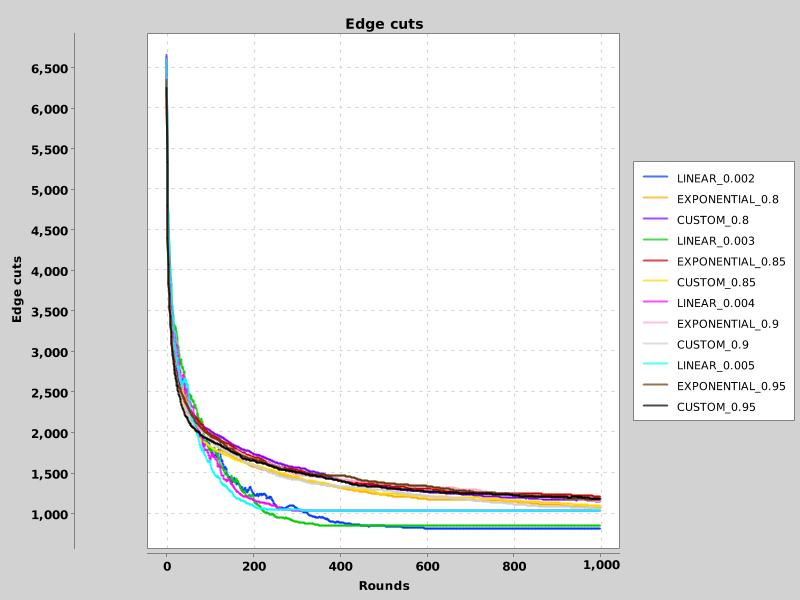
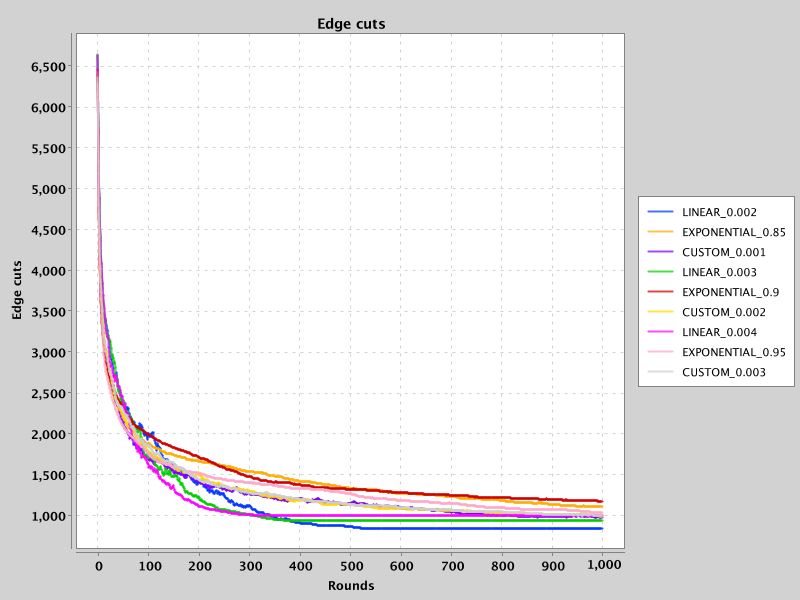
implement custom cooldown

Changed region(s): [[0.0, 0.03, 1.0, 0.99], [0.375, 0.03, 0.5312, 0.06]]

diff --git a/src/main/java/se/kth/jabeja/Main.java b/src/main/java/se/kth/jabeja/Main.java
@@ -92,11 +92,14 @@ public class Main {
         double initDelta = 0.002;
         double deltaDelta = 0.001;
 
+        double initCustomAlpha = 0.001;
+        double deltaCustomAlpha = 0.001;
+
         // Initialize
         for (int i=0; i<runs; i++){
             hosts[i*annealingTypes] = initJabeja(AnnealingType.LINEAR, initDelta + deltaDelta*i, 0.0, i*annealingTypes);
             hosts[(i*annealingTypes)+1] = initJabeja(AnnealingType.EXPONENTIAL, 0.0, initAlpha + deltaAlpha*i, i*annealingTypes+1);
-            hosts[(i*annealingTypes)+2] = initJabeja(AnnealingType.CUSTOM, 0.0, initAlpha + deltaAlpha*i, i*annealingTypes+2);
+            hosts[(i*annealingTypes)+2] = initJabeja(AnnealingType.CUSTOM, 0.0, initCustomAlpha + deltaCustomAlpha*i, i*annealingTypes+2);
         }
         realTimeDisplay = new SwingWrapper<XYChart>(realtimeCharts);
         realTimeDisplay.displayChartMatrix();

diff --git a/src/main/java/se/kth/jabeja/Jabeja.java b/src/main/java/se/kth/jabeja/Jabeja.java
@@ -107,7 +107,12 @@ public class Jabeja {
       break;
       case CUSTOM: {
         // TODO - improve with custom annealing function
-        T *= config.getAlpha();
+        if (T > T_min) {
+          T -= config.getAlpha() * T * T;
+        }
+        if (T < T_min) {
+          T = T_min;
+        }
       }
     }
   }
